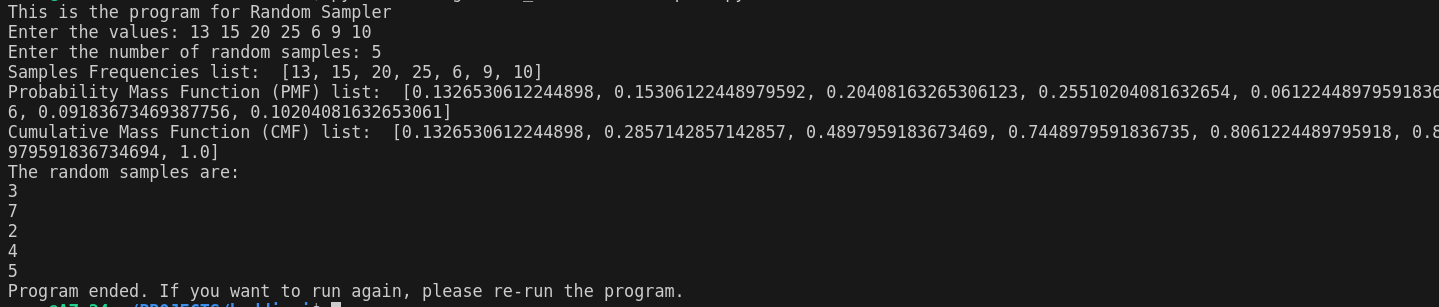
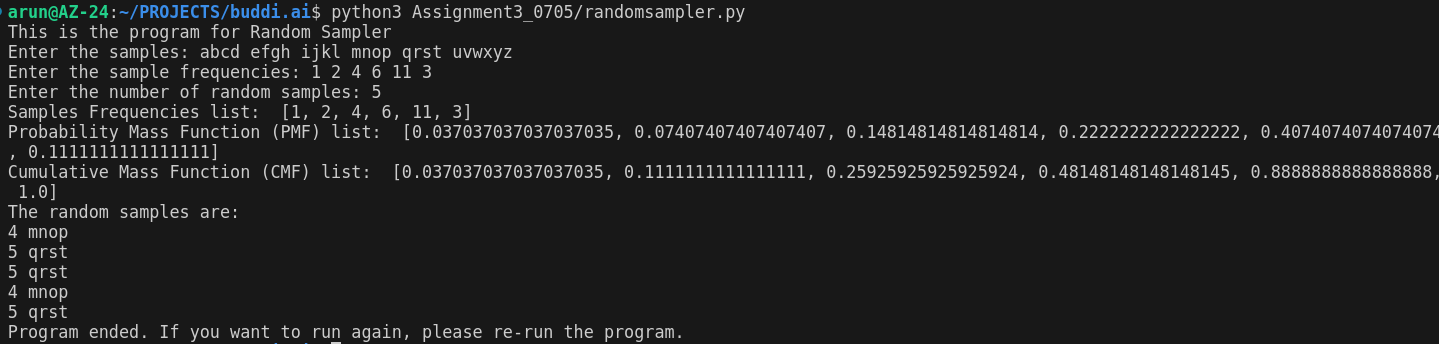
updating assignment 3

Changed region(s): [[0.0, 0.0, 1.0, 1.0]]

diff --git a/Assignment3_0705/randomsampler.py b/Assignment3_0705/randomsampler.py
@@ -1,6 +1,7 @@
 import random
 print("This is the program for Random Sampler")
-lstin = list(map(int, input("Enter the values: ").split()))
+lstsamples = input("Enter the samples: ").split()
+lstin = list(map(int, input("Enter the sample frequencies: ").split()))
 cnt = int(input("Enter the number of random samples: "))
 lst = []
 sumi = sum(lstin)
@@ -17,6 +18,7 @@ for j in range(cnt):
     rf = random.uniform(0, 1)
     for k in range(len(lstcmf)):
         if rf <= lstcmf[k]:
-            print(k+1)
+            print(k+1, end=" ")
+            print(lstsamples[k])
             break
 print("Program ended. If you want to run again, please re-run the program.")
